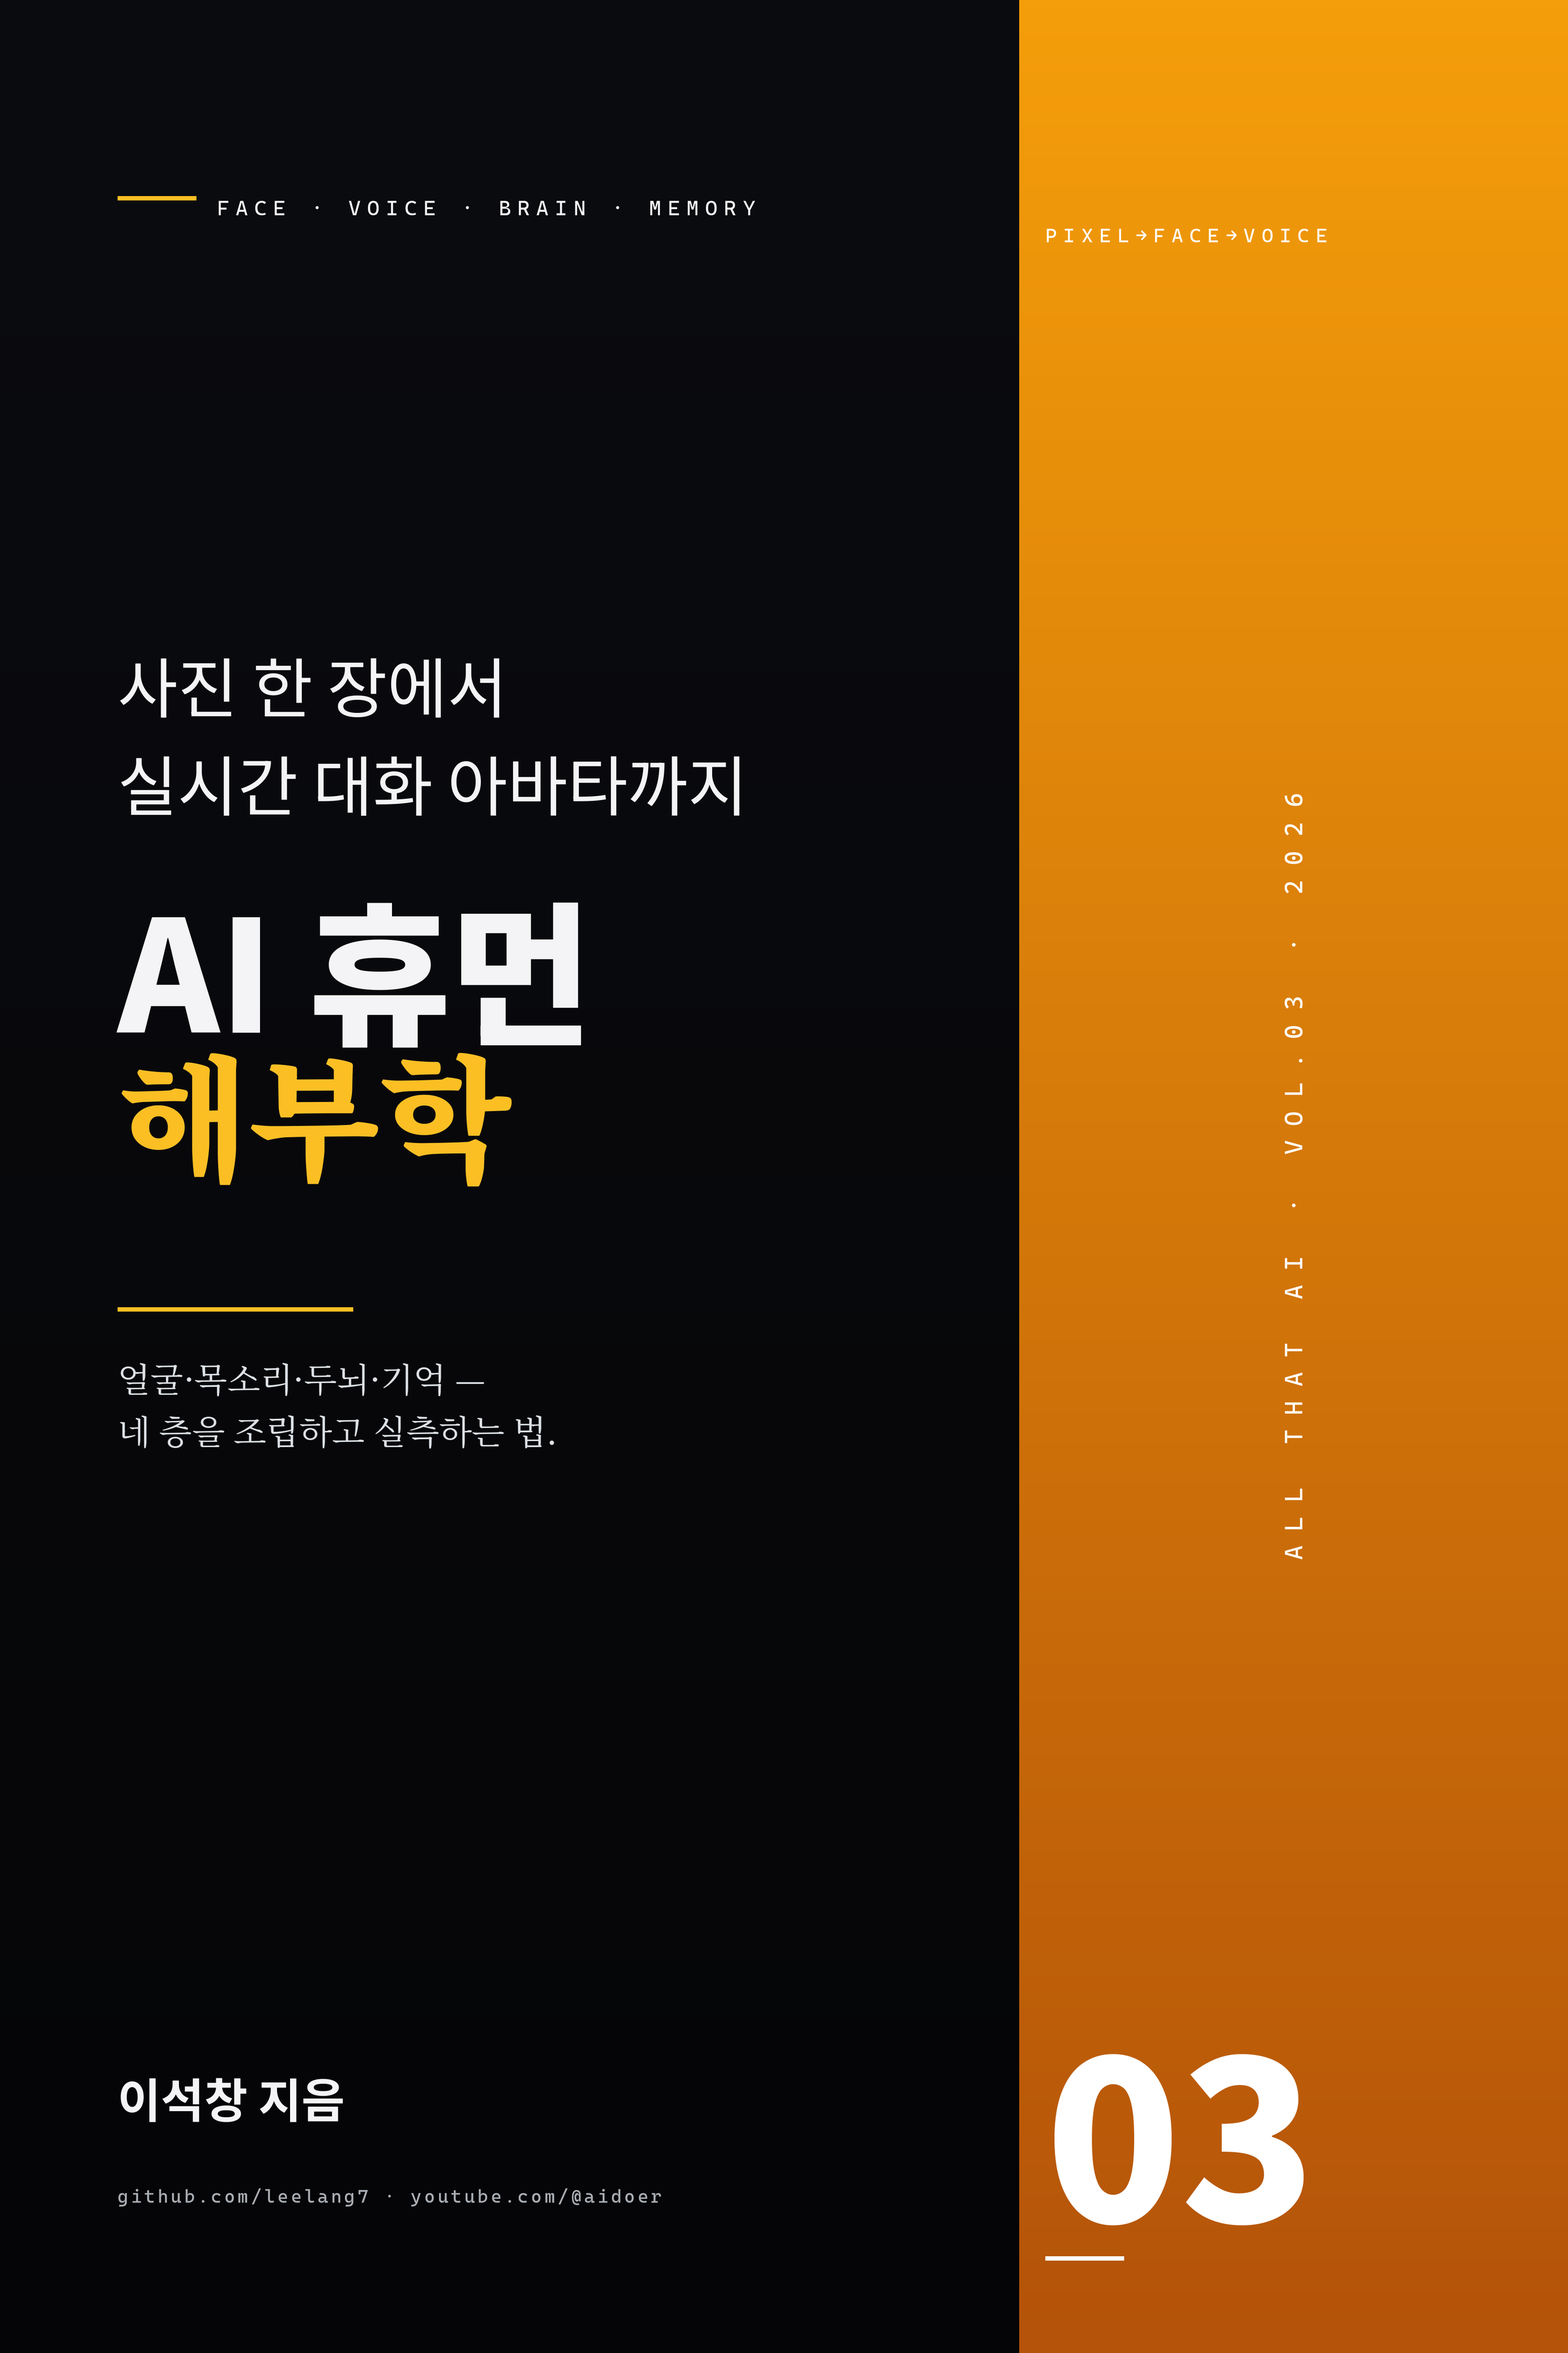
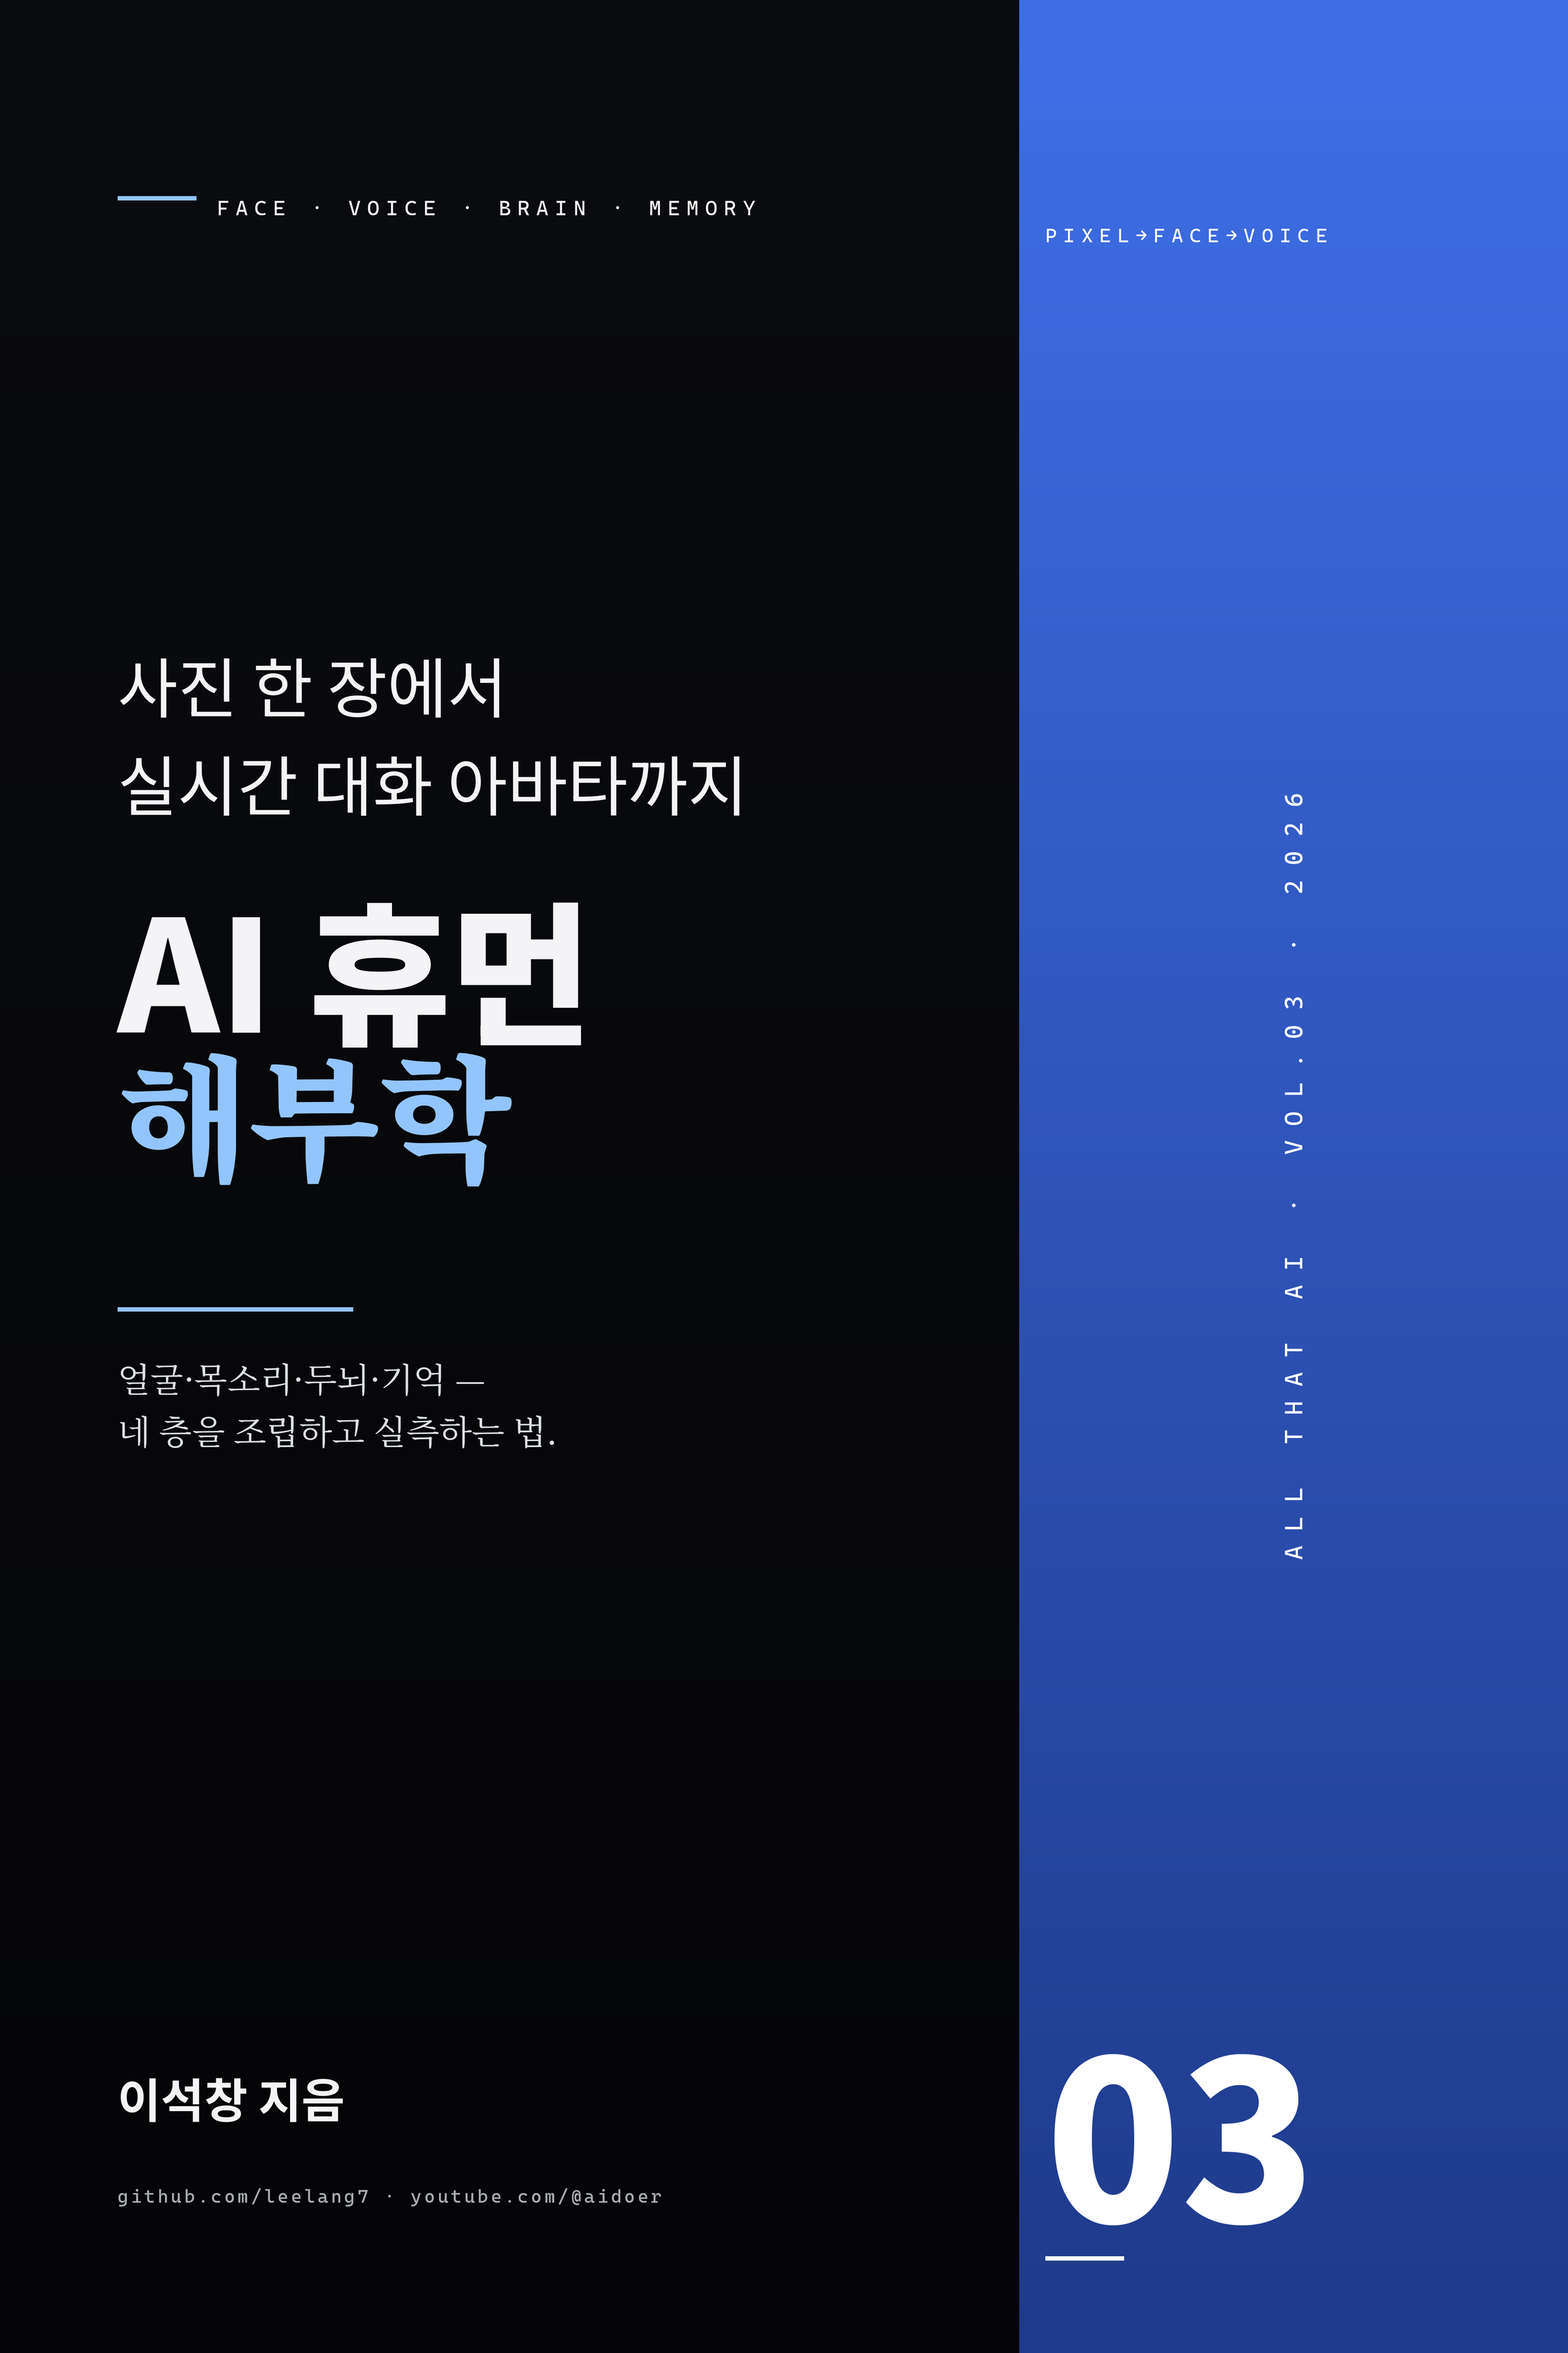
표지: 강조색을 원고 본문 강조색 블루(#3F6FE8)로 통일 — 앰버 폐기

diff --git a/scripts/build_cover_v03.py b/scripts/build_cover_v03.py
@@ -26,10 +26,10 @@ S = 3                       # 슈퍼샘플(고해상 출력용)
 W, H = 1200 * S, 1800 * S   # Vol.01 SVG 좌표계 그대로(2:3)
 OUT_W, OUT_H = 2400, 3600   # 출력 해상도 — 인쇄 300dpi 대응 (출판사·유통사 표기는 업체가 넣는다 — 표지에 쓰지 않는다)
 
-# 팔레트 — Vol.01=레드, Vol.02=틸, Vol.03=앰버(목소리·온기)
+# 팔레트 — Vol.01=레드, Vol.02=틸, Vol.03=블루 — 원고 본문 강조색(--accent #3F6FE8)과 동일
 BLK_TOP, BLK_BOT = (11, 12, 16), (5, 5, 7)
-ACC_TOP, ACC_BOT = (245, 158, 11), (180, 83, 9)     # 컬럼 그라디언트
-ACC = (251, 191, 36)                                # 강조 텍스트(밝은 틸)
+ACC_TOP, ACC_BOT = (63, 111, 232), (30, 58, 138)     # 컬럼 그라디언트
+ACC = (147, 197, 253)                                # 강조 텍스트(밝은 틸)
 OFF = (244, 244, 246)
 
 _cache = {}
@@ -127,7 +127,7 @@ def main():
     out = img.resize((OUT_W, OUT_H), Image.LANCZOS)
     OUT.parent.mkdir(parents=True, exist_ok=True)
     out.save(OUT, quality=95)
-    print(f"[Vol.03 표지] {OUT.name}  {OUT_W}×{OUT_H} (시리즈 시스템 계승·앰버 강조·고해상)")
+    print(f"[Vol.03 표지] {OUT.name}  {OUT_W}×{OUT_H} (시리즈 시스템 계승·블루(본문 강조색) 통일·고해상)")
 
 
 if __name__ == "__main__":
